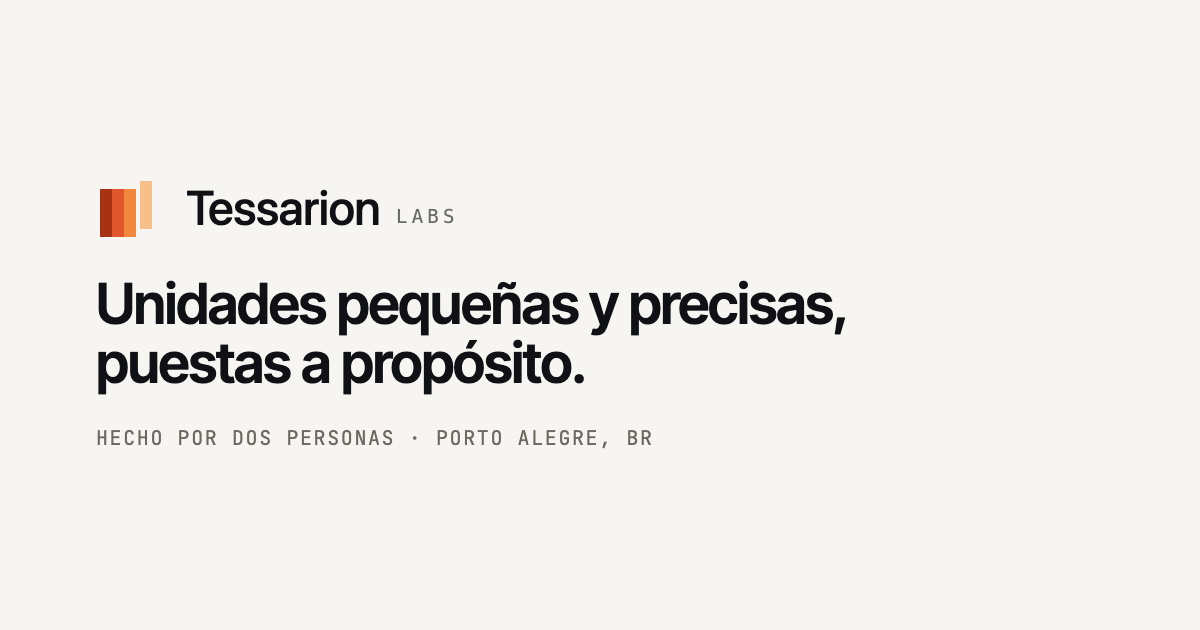
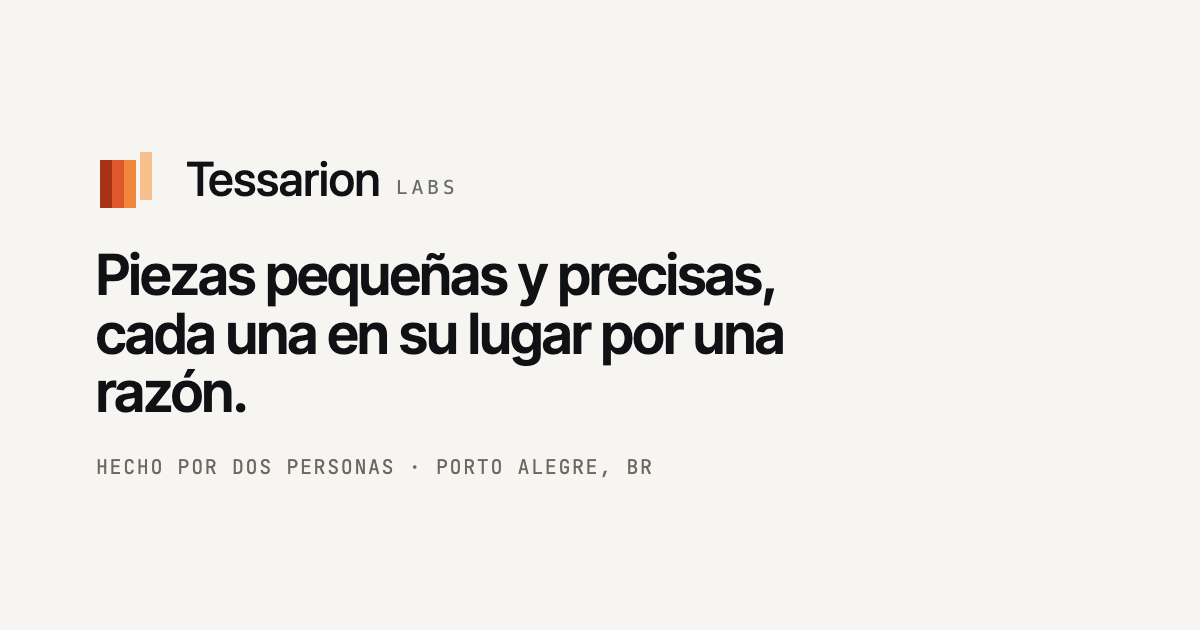
fix: write the translations instead of converting them, and say who Alice is
**The translations read like a machine.** Every word was correct and the shape
was English: `colocadas de propósito` for "placed on purpose", three stacked
`não há` where a Brazilian says `não tem`, `essa é a troca` for "that is the
trade", `entrega em TypeScript` for "ships in", `razão` for a ledger nobody
outside accounting calls that, and `nómina` on a page whose locale is es-419.

The rule now is that the dictionary is the unit of translation, not the sentence.
A locale may restate an idea in a different shape if that is how the idea is said
there. The mosaic line is the clearest case: English keeps "small precise units,
placed on purpose", Portuguese becomes "peças pequenas e precisas, cada uma no
lugar por um motivo", and each locale's share image is regenerated to match
rather than staying a picture of the English.

The parity gate proves every key exists. It cannot prove the Portuguese says what
the English says — that stays a review job, which is why the strings live in
three readable JSON files rather than inside markup.

**Alice.** She does not work at Lydia Sistemas any more, and the bio described
about a third of her. She came to engineering from management, design and social
media and kept all three; the bio now says so, and her role reads
"Design · delivery" rather than "Engineering · Web".

**The division of labour is now stated outright**, in a new lead on the people
section: Roger has more ideas than a week holds, Alice decides which one ships
[…]

Changed region(s): [[0.0617, 0.2413, 0.7092, 0.754], [0.5242, 0.6635, 0.555, 0.754]]

diff --git a/openspec/changes/tessarion-labs-site/tasks.md b/openspec/changes/tessarion-labs-site/tasks.md
@@ -172,3 +172,15 @@
 - [x] 19.1 Rewrite the crew roles as real engineering titles: Char — `Engineering manager. Runs the standup. Has an opinion on every ticket.` Joey — `Security engineer. Trusts one origin. Blocks every request from an unknown host.` Reginaldo — `Principal engineer. Longest tenure, owns the legacy system, does not pair.` Translate each into pt-BR and es-419.
 - [x] 19.2 Change the contact address to `hello.tessarion@gmail.com` in all three dictionaries.
 - [x] 19.3 Reorder the header below 48rem so row one is the mark, the language switcher and the theme toggle, and the section nav takes row two. The switcher was landing on a third row where a reader on a phone did not see it. Header height on a 390px viewport drops from 158px to 106px.
+
+## 20. Rewriting the translations, and who Alice is
+
+- [x] 20.1 Rewrite the Portuguese copy as Brazilian Portuguese rather than a conversion of the English. Out: `colocadas de propósito`, three stacked `não há` where Brazilians say `não tem`, `essa é a troca`, `entrega em TypeScript`, `razão` for a ledger, `contra a sua meta`, `É esse o plano`.
+- [x] 20.2 Rewrite the Spanish the same way. Out: `puestas a propósito`, `ese es el intercambio`, `entrega en TypeScript`, `contra tu meta`, and `nómina`, which is peninsular — the page is `es-419`.
+- [x] 20.3 Restate the mosaic line per locale instead of translating it word for word: pt `peças pequenas e precisas, cada uma no lugar por um motivo`, es `piezas pequeñas y precisas, cada una en su lugar por una razón`. Regenerate both share images to match.
+- [x] 20.4 Retitle the about section per locale — `O que é a Tessarion`, `Qué es Tessarion` — instead of translating "What this is", which reads as a sentence fragment in both languages.
+- [x] 20.5 Drop Lydia Sistemas from Alice's bio in all three locales. She does not work there.
+- [x] 20.6 Rewrite Alice's role and bio around what she actually does: management, design and social media brought into engineering, and ownership of turning a pile of ideas into a scope, an order and a date. Role becomes `Design · delivery` / `Design · execução` / `Diseño · ejecución`.
+- [x] 20.7 Add `people.lead` to the template and all three dictionaries, stating the division of labour: Roger has more ideas than a week holds, Alice decides which one ships and in what order.
+- [x] 20.8 Change `two engineers` to `two people` in the about section — the pair is not two of the same thing, and the facts strip already said `2 people`.
+- [x] 20.9 Extend the voice gate with the calque list, and re-run every gate across three locales and both themes.

diff --git a/openspec/changes/tessarion-labs-site/design.md b/openspec/changes/tessarion-labs-site/design.md
@@ -53,6 +53,16 @@ Crucially this keeps the property the original decision was protecting: each loc
 
 *The cost.* `index.html` is no longer in the repository, which is surprising in a site repo, and copy changes now happen in JSON rather than in markup. The parity gate and a one-line `bun run pages` are the mitigation.
 
+### Translations are written, not converted
+
+The first pass rendered English sentences into Portuguese and Spanish word by word. Every word was correct and the result read like a machine: `colocadas de propósito` for "placed on purpose", three stacked `não há` where a Brazilian says `não tem`, `essa é a troca` for "that is the trade", `entrega em TypeScript` for "ships in TypeScript", `razão` for a ledger nobody outside accounting calls that, and `nómina` on a page whose locale is `es-419`.
+
+The rule now: **the dictionary is the unit of translation, not the sentence.** A locale may restate an idea in a different shape if that is how the idea is said there. The mosaic line is the clearest case — English keeps "small precise units, placed on purpose", Portuguese becomes "peças pequenas e precisas, cada uma no lugar por um motivo", and the share image for each locale is regenerated to match rather than being a picture of the English.
+
+This is why the share-card source is generated from the same dictionaries: a locale that rewrites its own headline would otherwise ship a social preview still carrying the old one.
+
+*The cost.* The three files can drift in meaning, not just in wording, and no automated check catches that. The parity gate proves every key exists; it cannot prove the Portuguese says what the English says. That is a review job, and it is why the strings live in three readable JSON files rather than inside markup.
+
 ### Language switching is three links, not a control
 
 The switcher is three `<a>` elements, one per document, with `hreflang` and `lang` on each and `aria-current` on the active one. No JavaScript, no menu, no stored preference.

diff --git a/openspec/changes/tessarion-labs-site/specs/localization/spec.md b/openspec/changes/tessarion-labs-site/specs/localization/spec.md
@@ -59,9 +59,21 @@ The voice rules SHALL hold in all three locales: verdict first, numbers over adj
 - **WHEN** the Portuguese page is checked for `revolucionário`, `apaixonado`, `sinergia`, `mágico`, `sem esforço`, `simplesmente` and the Spanish page for their equivalents
 - **THEN** none is found
 
-#### Scenario: Translations are not literal where literal is wrong
-- **WHEN** a call to action is translated
-- **THEN** it reads as something a person would actually say in that language rather than a word-for-word rendering of the English
+#### Scenario: Translations are written, not converted
+- **WHEN** any string is translated
+- **THEN** it reads as something a person would actually say in that language, and a calque of the English structure is a defect even when the words are correct
+
+#### Scenario: Known calques stay out
+- **WHEN** the Portuguese page is checked
+- **THEN** it contains no `colocadas de propósito` for "placed on purpose", no stacked `não há` where Brazilians say `não tem`, no `essa é a troca` for "that is the trade", no `entrega em <language>` for "ships in", and no `razão` for a ledger
+
+#### Scenario: Regional register
+- **WHEN** the Spanish page is read
+- **THEN** it uses Latin American vocabulary rather than peninsular Spanish — for example it does not use `nómina` for payroll
+
+#### Scenario: A metaphor may change shape
+- **WHEN** an English figure of speech has no natural equivalent
+- **THEN** the translation is allowed to restate the idea differently, and the share image for that locale is regenerated to match
 
 ### Requirement: The endorsement string stays in English
 `A Tessarion Labs product` SHALL appear verbatim in every locale, untranslated.

diff --git a/openspec/changes/tessarion-labs-site/specs/people/spec.md b/openspec/changes/tessarion-labs-site/specs/people/spec.md
@@ -55,7 +55,22 @@ Each bio SHALL be written from what that person has actually shipped or holds, a
 
 #### Scenario: Alice's bio
 - **WHEN** Alice's bio is rendered
-- **THEN** it describes her as a developer working in web technologies, names the stack she works in and the degree she is studying, and does not inflate her seniority
+- **THEN** it names the management, design and social-media work she came from, the stack she works in, the degree she is studying, and what she owns on Taimu, and it does not inflate her seniority
+
+#### Scenario: No stale employer
+- **WHEN** either bio is rendered
+- **THEN** it names no employer either person has left
+
+### Requirement: The division of labour is stated
+The people section SHALL open with a lead naming how the two of them split the work: Roger generates the ideas, Alice decides which one ships and in what order. It SHALL state this as a fact about how the work happens, not as a compliment to either person.
+
+#### Scenario: The split is legible before the bios
+- **WHEN** a reader reaches the people section
+- **THEN** the lead tells them who starts things and who finishes them, before either card is read
+
+#### Scenario: Neither half is the senior one
+- **WHEN** the lead is read
+- **THEN** it describes two halves of one job, and does not rank them
 
 ### Requirement: Outbound links
 Each person's links SHALL point at their real GitHub profile, and LinkedIn where one exists. Outbound links SHALL carry `rel="noopener noreferrer"` and SHALL be announced with the destination in their accessible name.
